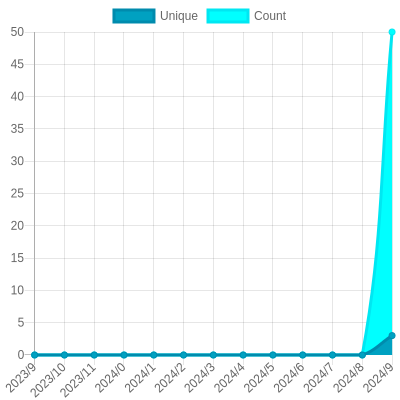
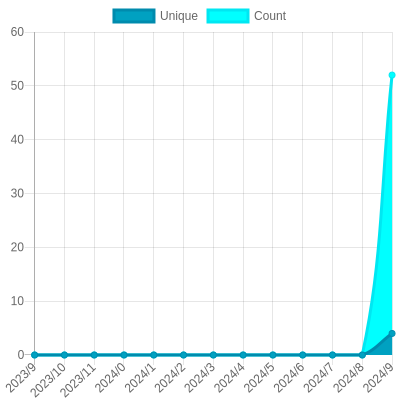
Update views

diff --git a/readme/704993170/year.md b/readme/704993170/year.md
@@ -23,10 +23,10 @@
 			<code>2023/10/1</code>
 		</td>
 		<td>
-			<code>3</code>
+			<code>4</code>
 		</td>
 		<td>
-			<code>50</code>
+			<code>52</code>
 		</td>
 	</tr>
 	<tr>
@@ -164,7 +164,7 @@
 </table>
 
 </details>
-<small><i>Last updated on 2023/10/18 12:14 PM UTC</i></small>
+<small><i>Last updated on 2023/10/18 6:10 PM UTC</i></small>
 
 ## ✂Copy and 📋 Paste
 ### SVG Badge

diff --git a/README.md b/README.md
@@ -37,7 +37,7 @@ The project created and maintained by [gayanvoice](https://github.com/gayanvoice
 	</tr>
 </table>
 
-<small><i>Last updated on 2023/10/18 12:15 PM UTC</i></small>
+<small><i>Last updated on 2023/10/18 6:10 PM UTC</i></small>
 
 ## ✂Copy and 📋 Paste
 ### Total Views Badge
